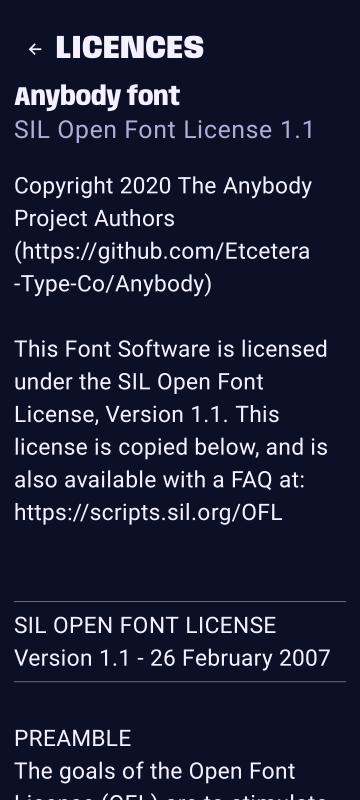
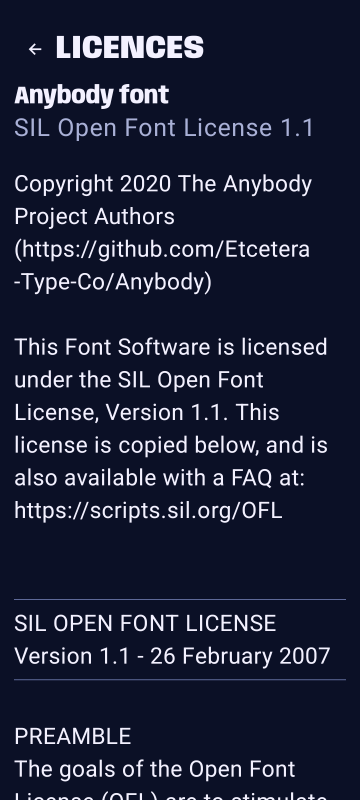
fix(ui): give every section heading the section-heading role
The Licences screen set its "Anybody font" heading in headlineSmall,
18sp, nearly as loud as the page title. "Sign in with" had the
section-heading role through titleMedium, 16sp Anybody 800, but no
heading semantics, so TalkBack read it as plain text. "Theme" in
Settings already had both.

The Licences heading now uses titleMedium, and "Sign in with" is a
heading. LargestFontScaleTest finds both by their heading role, as it
already found "Theme", so it checks that TalkBack announces all three.

References re-recorded for the smaller Licences heading: Licences, light
and dark, at 100% and 200%. The sign-in references did not change.

Refs: TKA-0119

diff --git a/app/src/androidTest/java/com/github/e0ipso/tokkl/ui/theme/LargestFontScaleTest.kt b/app/src/androidTest/java/com/github/e0ipso/tokkl/ui/theme/LargestFontScaleTest.kt
@@ -138,7 +138,7 @@ class LargestFontScaleTest {
         assertFitWithoutOverlap(
             "Back button" to composeRule.onNodeWithContentDescription(string(R.string.back)),
             text(R.string.licences),
-            text(R.string.licence_anybody_title),
+            heading(R.string.licence_anybody_title),
             text(R.string.licence_anybody_licence),
         )
     }
@@ -334,7 +334,7 @@ class LargestFontScaleTest {
             brand(),
             "heading" to composeRule.onNode(hasText(string(R.string.sign_in_title)) and isHeading()),
             "server URL field" to field(R.string.sign_in_server_url),
-            text(R.string.sign_in_method),
+            heading(R.string.sign_in_method),
             "API token choice" to choice(R.string.sign_in_method_api_token),
             "email and password choice" to choice(R.string.sign_in_method_email_password),
         ) + credentialFields + listOf(
@@ -612,6 +612,10 @@ class LargestFontScaleTest {
     /** The text node itself, not the button it may sit in, so its layout result is reachable. */
     private fun text(@StringRes id: Int): Pair<String, SemanticsNodeInteraction> =
         string(id).let { it to composeRule.onNodeWithText(it, useUnmergedTree = true) }
+
+    /** A text node that TalkBack announces as a heading. */
+    private fun heading(@StringRes id: Int): Pair<String, SemanticsNodeInteraction> =
+        string(id).let { "$it heading" to composeRule.onNode(hasText(it) and isHeading(), useUnmergedTree = true) }
 
     /**
      * The layout result that semantics hands out is laid out again at the full available width,

diff --git a/app/src/main/java/com/github/e0ipso/tokkl/signin/SignInScreen.kt b/app/src/main/java/com/github/e0ipso/tokkl/signin/SignInScreen.kt
@@ -30,6 +30,7 @@ import androidx.compose.ui.platform.LocalSoftwareKeyboardController
 import androidx.compose.ui.res.pluralStringResource
 import androidx.compose.ui.res.stringResource
 import androidx.compose.ui.semantics.LiveRegionMode
+import androidx.compose.ui.semantics.heading
 import androidx.compose.ui.semantics.liveRegion
 import androidx.compose.ui.semantics.semantics
 import androidx.compose.ui.text.input.ImeAction
@@ -224,6 +225,7 @@ private fun MethodChoice(selected: SignInMethod, onSelect: (SignInMethod) -> Uni
         Text(
             text = stringResource(R.string.sign_in_method),
             style = MaterialTheme.typography.titleMedium,
+            modifier = Modifier.semantics { heading() },
         )
         for ((method, label) in METHOD_LABELS) {
             RadioOptionRow(

diff --git a/app/src/main/java/com/github/e0ipso/tokkl/licences/LicencesScreen.kt b/app/src/main/java/com/github/e0ipso/tokkl/licences/LicencesScreen.kt
@@ -66,7 +66,7 @@ fun LicencesScreen(onBack: () -> Unit, modifier: Modifier = Modifier) {
             Spacer(Modifier.height(TokklTheme.spacing.underTopBar))
             Text(
                 text = stringResource(R.string.licence_anybody_title),
-                style = MaterialTheme.typography.headlineSmall,
+                style = MaterialTheme.typography.titleMedium,
                 modifier = Modifier.semantics { heading() },
             )
             Text(
